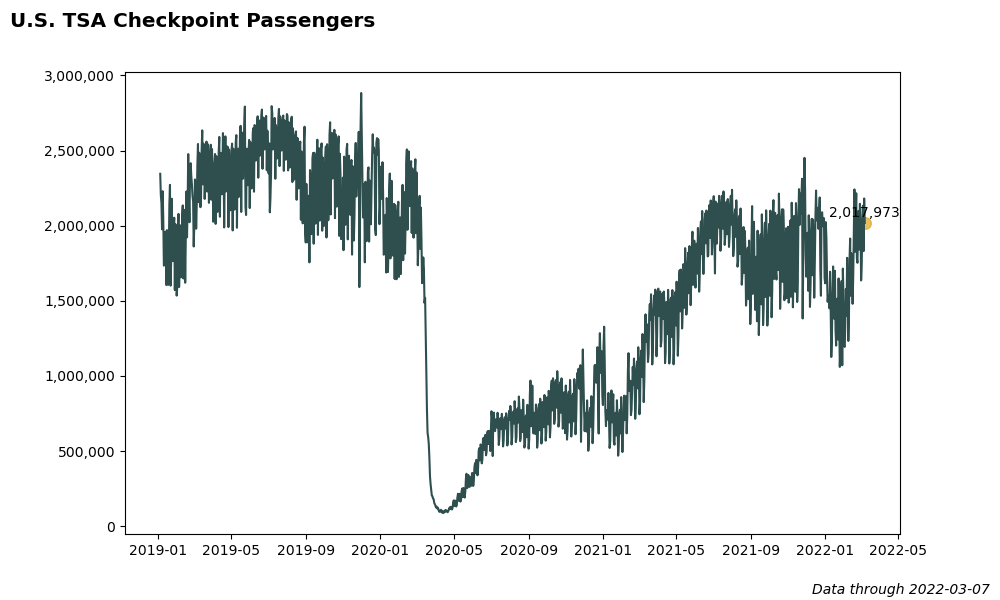
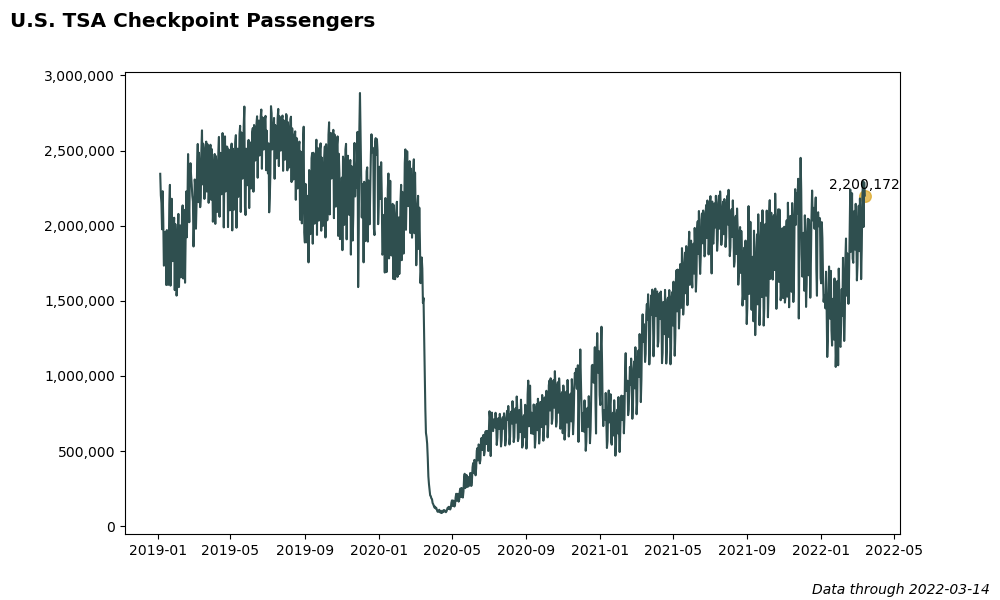
Rewrite TSA data pull. Finish "How to Pull TSA Data".

diff --git a/projects/tsa/how-to-pull-tsa-data.html b/projects/tsa/how-to-pull-tsa-data.html
@@ -40,14 +40,156 @@
 
 
     <h1>How to Pull TSA Checkpoint Passenger Data</h1>
-    
-    <p>At the start of the Covid-19 outbreak, the U.S. Transportation Security
-       Administration <a href="https://www.tsa.gov/coronavirus/passenger-throughput">began sharing TSA security checkpoint passenger throughput numbers.</a></p>
+      
+      <p>At the start of the Covid-19 outbreak, the U.S. Transportation Security
+        Administration began sharing <a href="https://www.tsa.gov/coronavirus/passenger-throughput">TSA security checkpoint passenger throughput numbers.</a></p>
 
-    <p>Currently the data looks like this on their site:</p>
-    <img src="images/tsa-site-original-data.png" alt="Original TSA data on the TSA site." class="responsive">
+      <p>Currently the data looks like this on their site:</p>
+      <img src="images/tsa-site-original-data.png" alt="Original TSA data on the TSA site." class="responsive">
 
-    <p>We have daily data with columns for the current and past three years. Based on the way this is structured, we can reasonably assume that the data is day-matched to the same day of the week in the prior years.</p>
+      <p>We have daily data with columns for the current and past three years. Based on the way this looks with each prior year in a new column, the prior year data is likely showing TSA checkpoint passengers on the same day of the week in that prior year. In other words, it is day-matched to the same day of the week in the prior years. We'll want to tidy this data, but first we need to get it into Python.</p>
+
+      <p>In 2020 when I first started pulling this data, I followed the steps in <a href="https://towardsdatascience.com/web-scraping-html-tables-with-python-c9baba21059">this great article</a> to automate this process. That is still a great way to pull the data, but I just recently discovered that pandas has a built-in <code>pull_html()</code> function! This will greatly simplify the process. Thanks to <a href="https://towardsdatascience.com/a-guide-to-scraping-html-tables-with-pandas-and-beautifulsoup-7fc24c331cf7">this other article</a> for helping me discover this.</p>
+
+      <h2>Using pandas <a href="https://pandas.pydata.org/docs/reference/api/pandas.read_html.html"><code>read_html()</code></a> to simplify reading HTML tables</h2>
+
+        <p>We should be able to simply call:</p>
+        
+        <pre>
+          <code>
+            pd.read_html("https://www.tsa.gov/coronavirus/passenger-throughput")</code>
+          </code>
+        </pre>
+        
+        <p>You can try this yourself and see if it works. Unfortunately I get a <code>HTTP Error 403: Forbidden</code> error, but we can use a simple <a href="https://stackoverflow.com/questions/43590153/http-error-403-forbidden-when-reading-html">workaround</a>.</p>
+
+        <p>We can use the <a href="https://docs.python-requests.org/en/latest/"><code>requests</code></a> library to first read the page and then parse it with <code>pd.read_html()</code>.</p>
+
+        <pre>
+          <code>
+            import requests
+            import pandas as pd
+
+            # URL that we want to pull TSA data from
+            url = "https://www.tsa.gov/coronavirus/passenger-throughput"
+        
+            # Read the page using requests.get()
+            r = requests.get(url)
+          </code>
+        </pre>
+        
+        <p>If we now print <code>r</code>, it just shows <code>&lt;Response [200]&gt;</code>, but if we print <code>r.text</code> then it will print the full HTML text of the website. This will print a massive jumble of text to the console, but if you scroll up and look through, you'll notice many <code>tr</code> and <code>td</code> tags along with dates and numbers. That is the data we're trying to get. As <a href="https://towardsdatascience.com/a-guide-to-scraping-html-tables-with-pandas-and-beautifulsoup-7fc24c331cf7">this article</a> explains about half-way through, each row in an HTML table is denoted with the <code>tr</code> ("table row") tag and each data point is denoted with the <code>td</code> ("table data") tag. Here is another helpful reference on <a href="https://www.w3schools.com/html/html_tables.asp">HTML tables.</a></p>
+
+        <img src="images/tsa-site-html-text.png" alt="TSA site HTML text with highlighted components." class="responsive">
+        
+        <p>Thankfully, our trusty friend pandas will do all of the <code>tr</code> and <code>td</code> parsing for us. We can now call <code>pd.read_html(r.text)</code> on the <code>r.text</code> HTML text that we looked through earlier.</p>
+        
+        <pre>
+          <code>
+            # Use pd.read_html() to parse the page html
+            df = pd.read_html(r.text)
+          </code>
+        </pre>
+        
+      <h2><code>read_html()</code> returns a list of dataframes</h2>
+
+        <p>Now if we print <code>df</code> it looks like this:</p>
+
+        <pre>
+          <code>
+            [          Date       2022     2021     2020     2019
+            0    3/14/2022  2200172.0  1267345  1257823  2465709
+            1    3/13/2022  2288800.0  1345284  1519192  2545742
+            2    3/12/2022  1990954.0  1227484  1485553  2274658
+            3    3/11/2022  2297374.0  1409771  1714372  2634215
+            4    3/10/2022  2184044.0  1286894  1788456  2503924
+            ..         ...        ...      ...      ...      ...
+            359  3/20/2021        NaN  1373259   548132  2227181
+            360  3/19/2021        NaN  1477841   593167  2559307
+            361  3/18/2021        NaN  1413141   620883  2513231
+            362  3/17/2021        NaN  1146539   779631  2320885
+            363  3/16/2021        NaN  1092548   953699  2177929
+            
+            [364 rows x 5 columns]]
+          </code>
+        </pre>
+
+        <p>Amazingly, this looks like a pandas dataframe that we can use! However we have to take one more step before proceeding. Notice the extra <code>[</code> at the very start of the dataframe and the closing <code>]</code> at the very end. This is easy to miss, but it tells us that we actually now have a list of 1 dataframe.</p>
+
+        <p>This is the default behavior of <code>pd.read_html()</code>. As the <a href="https://pandas.pydata.org/docs/reference/api/pandas.read_html.html">documents</a> say, the function will "Read HTML tables into a list of DataFrame objects." The end of the documents page also says "This function will <em>always</em> return a list of <code>DataFrame</code> <em>or</em> it will fail, e.g., it will <em>not</em> return an empty list." If the site happened to have multiple tables on it, pandas would try to read all of them and store them as separate dataframes within the returned list.</p>
+
+        <p>We can confirm that we have a list of 1 dataframe with <code>type()</code> and <code>len()</code>:</p>
+        
+        <pre>
+          <code>
+            >>> type(df)
+            &lt;class 'list'&gt;
+            >>> len(df)
+            1
+          </code>
+        </pre>
+
+        <p>We can select the first element in our list to pull out the dataframe. Then we can convert the <code>Date</code> field from text to datetime and sort by <code>Date</code>. Finally, can save the data for later use!</p>
+
+        <pre>
+          <code>
+            # The result is a list of 1 dataframe, we need to select that dataframe from the list
+            df = df[0]
+        
+            # Changing data types.
+            df['Date'] = pd.to_datetime(df['Date'])
+        
+            # Sorting by Date.
+            df = df.sort_values(by = 'Date')
+        
+            # Save data in original format
+            df.to_csv('data/tsa-orig.csv', index=False)
+            print('Data pulled.')
+          </code>
+        </pre>
+
+
+      <h2>Final code</h2>
+        
+        <p>Now here is the complete code:</p>
+
+
+        <pre>
+          <code>
+            import requests
+            import pandas as pd
+            
+            def pull_data():
+                '''
+                Pull TSA checkpoint traveler data from https://www.tsa.gov/coronavirus/passenger-throughput
+                '''
+                # Guided by:
+                # https://towardsdatascience.com/a-guide-to-scraping-html-tables-with-pandas-and-beautifulsoup-7fc24c331cf7
+                # https://stackoverflow.com/questions/43590153/http-error-403-forbidden-when-reading-html
+            
+                # URL that we want to pull TSA data from
+                url = "https://www.tsa.gov/coronavirus/passenger-throughput"
+            
+                # Read the page using requests.get()
+                r = requests.get(url)
+                
+                # Use pd.read_html() to parse the html text
+                df = pd.read_html(r.text)
+            
+                # The result is a list of 1 dataframe, we need to select that dataframe from the list
+                df = df[0]
+            
+                # Changing data types.
+                df['Date'] = pd.to_datetime(df['Date'])
+            
+                # Sorting by Date.
+                df = df.sort_values(by='Date')
+            
+                # Save data in original format
+                df.to_csv('data/tsa-orig.csv', index=False)
+                print('Data pulled.')
+          </code>
+        </pre> 
 
     <!-- Footer --------------------------------------------------------------->
     <footer>

diff --git a/index.html b/index.html
@@ -43,7 +43,9 @@
 
     <h1>bbgatch analytics</h1>
     
-    <p>Welcome to my website! This is where I'll explore new analytics projects.</p>
+    <p>Welcome to my website! This is where I'll explore new analytics projects and write about what I'm learning.</p>
+
+    <p>This site is hosted on <a href="https://pages.github.com/">GitHub Pages</a>, feel free to check out the full portfolio files on the repo <a href="https://github.com/bbgatch/bbgatch.github.io">here</a>.</p>
     
     <h2>Projects</h2>
     <ul>

diff --git a/main.css b/main.css
@@ -22,11 +22,11 @@ a {
 }
 
 /* Switched to using highlight.js for code formatting. */
-/* code {
+code {
     background-color: #e8e8e0;
     font-size: 1.1em;
     padding: 3px 2px;
-} */
+}
 
 /* pre {
     background: #e8e8e0;
@@ -75,6 +75,8 @@ footer p {
     display: block;
     margin-left: auto;
     margin-right: auto;
+    margin-top: 20px;
+    margin-bottom: 20px;
 }
 
 .tableauPlaceholder {

diff --git a/projects/tsa/plotting-tsa-data-with-matplotlib.html b/projects/tsa/plotting-tsa-data-with-matplotlib.html
@@ -96,7 +96,6 @@
             print('Trend chart created.')
       </code>
     </pre>
-
     <img src="images/tsa-full-trend.png" alt="Trend plot of TSA checkpoint passengers." class="responsive">
 
     <pre>

diff --git a/projects/tsa/code/pull_data.py b/projects/tsa/code/pull_data.py
@@ -1,60 +1,31 @@
 import requests
-import lxml.html as lh
 import pandas as pd
-import datetime as dt
-from datetime import date, timedelta
 
 def pull_data():
     '''
     Pull TSA checkpoint traveler data from https://www.tsa.gov/coronavirus/passenger-throughput
     '''
     # Guided by:
-    # https://towardsdatascience.com/web-scraping-html-tables-with-python-c9baba21059
+    # https://towardsdatascience.com/a-guide-to-scraping-html-tables-with-pandas-and-beautifulsoup-7fc24c331cf7
+    # https://stackoverflow.com/questions/43590153/http-error-403-forbidden-when-reading-html
 
+    # URL that we want to pull TSA data from
     url = "https://www.tsa.gov/coronavirus/passenger-throughput"
 
-    # Create handle for the site contents.
-    page = requests.get(url)
+    # Read the page using requests.get()
+    r = requests.get(url)
+    
+    # Use pd.read_html() to parse the html text
+    df = pd.read_html(r.text)
 
-    # Store the contents of the website.
-    doc = lh.fromstring(page.content)
-
-    # Parse data stored between <tr>..</tr> in HTML
-    tr_elements = doc.xpath('//tr')
-
-    # Pulling out the header names
-    colnames = []
-    for t in tr_elements[0]:
-        name = t.text_content()
-        colnames.append(name)
-
-    # Creating lists of table data.
-    data = [[], [], [], [], []]
-    for row in tr_elements[1:]:
-        i = 0
-        for cell in row.iterchildren():
-            datum = cell.text_content()
-            datum = str(datum)
-            # print(datum)
-            datum = datum.strip()
-            data[i].append(datum)
-            i += 1
-
-    # Converting to dictionary for easier transition to Pandas dataframe.
-    df = dict(zip(colnames, data))
-
-    # Converting from dictionary to Pandas dataframe.
-    df = pd.DataFrame(df)
+    # The result is a list of 1 dataframe, we need to select that dataframe from the list
+    df = df[0]
 
     # Changing data types.
     df['Date'] = pd.to_datetime(df['Date'])
-    df['2022'] = pd.to_numeric(df['2022'].str.replace(',', ''))
-    df['2021'] = pd.to_numeric(df['2021'].str.replace(',', ''))
-    df['2020'] = pd.to_numeric(df['2020'].str.replace(',', ''))
-    df['2019'] = pd.to_numeric(df['2019'].str.replace(',', ''))
 
     # Sorting by Date.
-    df = df.sort_values(by = 'Date')
+    df = df.sort_values(by='Date')
 
     # Save data in original format
     df.to_csv('data/tsa-orig.csv', index=False)
